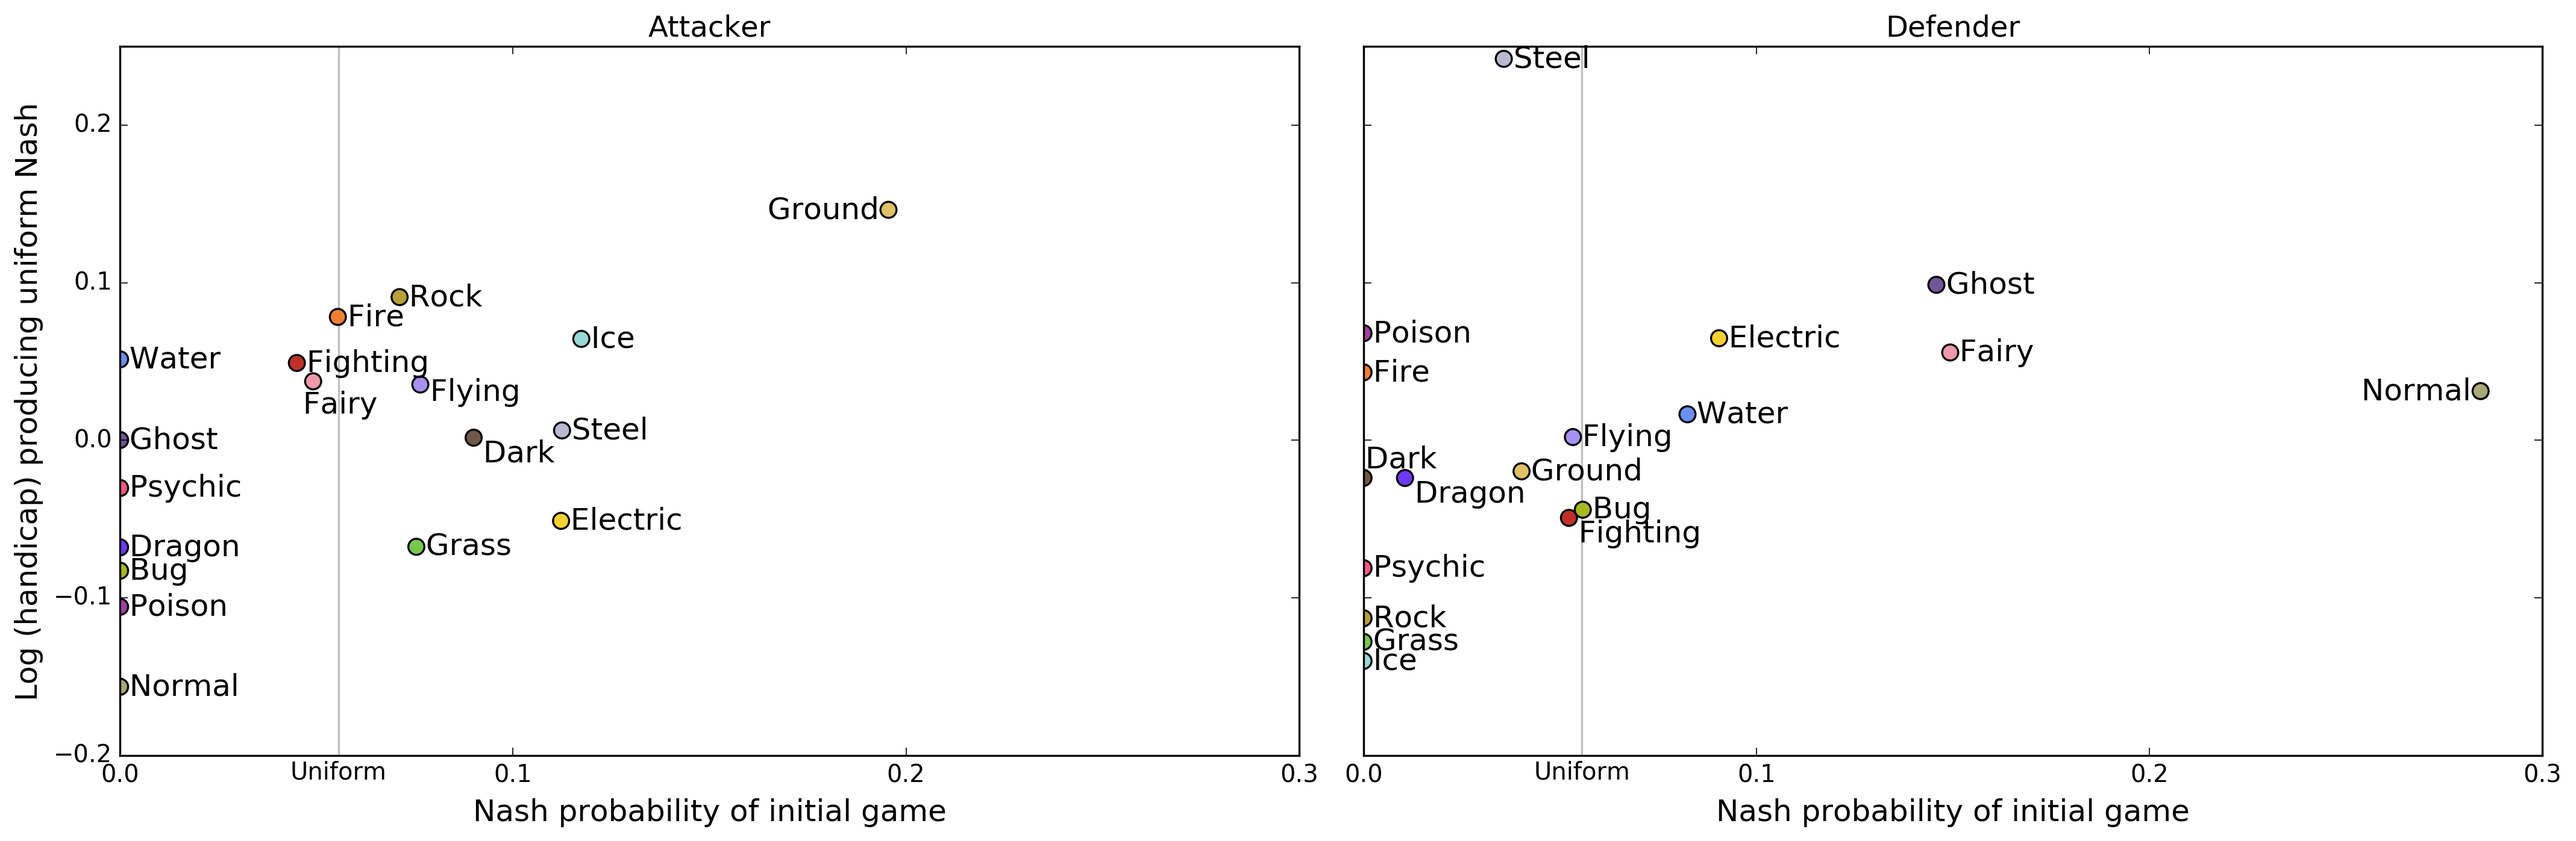
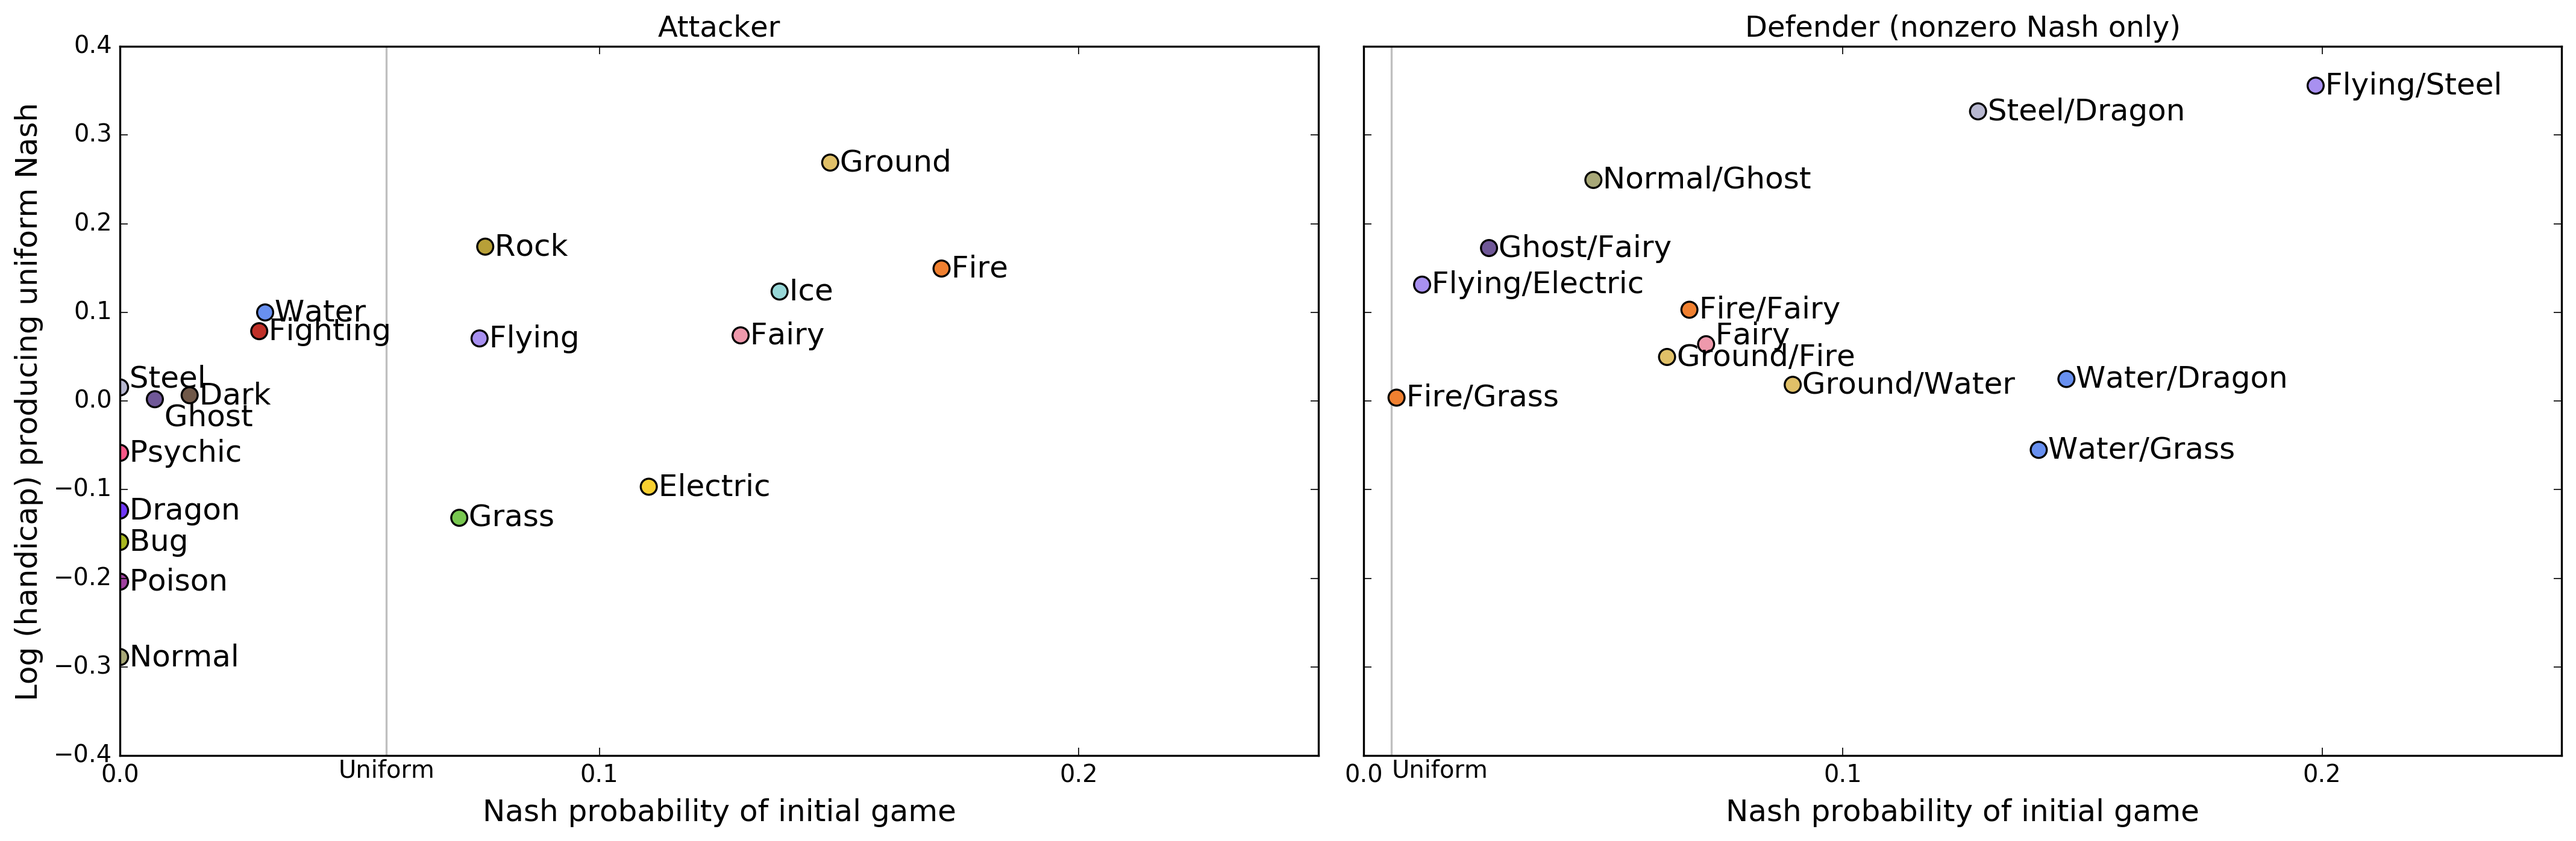
version with dual type defender

diff --git a/python/examples/pokemon_dual_defender.py b/python/examples/pokemon_dual_defender.py
@@ -1,0 +1,131 @@
+import _initpath
+
+import numpy
+import dataset.nonsymmetric
+import zerosum.balance
+import zerosum.nash
+import matplotlib
+import matplotlib.pyplot as plt
+
+# Balances the Pokemon type chart using a multiplicative handicap function.
+# This one includes all possible dual-type defenses.
+# Plots the handicaps versus Nash equilibrium of the original game.
+
+# Initial payoff matrix.
+data = dataset.nonsymmetric.pokemon_6_dual_defender.data
+# Names of the Pokemon types.
+row_names = dataset.nonsymmetric.pokemon_6_dual_defender.row_names
+# Vector of color codes for the types.
+row_colors = [dataset.nonsymmetric.pokemon_type_colors[name.split('/')[0]] for name in row_names]
+
+# Names of the Pokemon types.
+col_names = dataset.nonsymmetric.pokemon_6_dual_defender.col_names
+# Vector of color codes for the types.
+col_colors = [dataset.nonsymmetric.pokemon_type_colors[name.split('/')[0]] for name in col_names]
+
+# Nash equilibrium of the initial game.
+row_nash, col_nash = zerosum.nash.nash(data)
+# Handicaps producing a uniform Nash equilibrium.
+balance = zerosum.balance.MultiplicativeBalance(data).optimize()
+
+# Now to plot.
+dpi = 240
+marker_size = 64
+text_size = 15
+bottom = -0.4
+top = 0.4
+loc = matplotlib.ticker.MultipleLocator(base=0.1)
+
+# Plot attacker and defender on separate subplots. Attacker first.
+fig = plt.figure(figsize = (18, 6))
+gs = matplotlib.gridspec.GridSpec(1, 2, width_ratios=[1, 1])
+ax = plt.subplot(gs[0])
+
+# Draw a line indicating where the uniform distribution would be.
+uniform_x = 1.0 / len(row_nash.strategy)
+ax.plot([uniform_x, uniform_x], [bottom, top],
+        color='#bfbfbf', linestyle='-', zorder=0)
+plt.text(uniform_x, bottom - 0.003, 'Uniform',
+         fontsize = 12,
+         rotation = 0,
+         ha = 'center', va = 'top')
+
+# Scatter plot of handicaps vs. Nash of initial game.
+x = row_nash.strategy
+y = numpy.log(balance.row_handicaps)
+y -= numpy.mean(y)
+
+ax.scatter(x, y, s = marker_size, c = row_colors)
+
+# Label each scatter plot point with the type name.
+for pointx, pointy, name, color in zip(x, y, row_names, row_colors):
+    ha = 'left'
+    # manual adjustment
+    if name == 'Steel':
+        pointy += 0.01
+    if name == 'Ghost':
+        pointy -= 0.02
+    
+    name = ' ' + name + ' '
+    plt.text(pointx, pointy, name,
+             fontsize = text_size,
+             rotation = 0,
+             ha = ha, va = 'center')
+
+ax.xaxis.set_major_locator(loc)
+ax.yaxis.set_major_locator(loc)
+ax.set_title('Attacker')
+
+ax.set_xlabel('Nash probability of initial game', fontsize = text_size)
+ax.set_ylabel('Log (handicap) producing uniform Nash', fontsize = text_size)
+
+ax.set_xlim(left=0.0, right = 0.25)
+ax.set_ylim(bottom=bottom, top = top)
+
+# Now for the defender plot.
+ax = plt.subplot(gs[1])
+
+uniform_x = 1.0 / len(col_nash.strategy)
+ax.plot([uniform_x, uniform_x], [bottom, top],
+        color='#bfbfbf', linestyle='-', zorder=0)
+plt.text(uniform_x, bottom - 0.003, 'Uniform',
+         fontsize = 12,
+         rotation = 0,
+         ha = 'left', va = 'top')
+
+x = col_nash.strategy
+y = numpy.log(balance.col_handicaps)
+y -= numpy.mean(y)
+
+sel = x >= 1e-6
+
+ax.scatter(x[sel], y[sel], s = marker_size, c = [c for i, c in enumerate(col_colors) if sel[i]])
+
+for pointx, pointy, name, color in zip(x, y, col_names, col_colors):
+    ha = 'left'
+    if pointx < 1e-6: continue
+    # manual adjustment
+    if name == 'Fairy':
+        pointy += 0.01
+    
+    name = ' ' + name + ' '
+    plt.text(pointx, pointy, name,
+             fontsize = text_size,
+             rotation = 0,
+             ha = ha, va = 'center')
+
+ax.xaxis.set_major_locator(loc)
+ax.yaxis.set_major_locator(loc)
+ax.set_title('Defender (nonzero Nash only)')
+
+ax.set_xlabel('Nash probability of initial game', fontsize = text_size)
+ax.yaxis.set_ticklabels([])
+
+ax.set_xlim(left=0.0, right = 0.25)
+ax.set_ylim(bottom=bottom, top = top)
+
+plt.tight_layout()
+
+plt.savefig("out/pokemon_dual_defender_scatter.png", dpi = dpi, bbox_inches = "tight")
+plt.show()
+

diff --git a/python/examples/dataset/nonsymmetric.py b/python/examples/dataset/nonsymmetric.py
@@ -8,6 +8,22 @@ class NonSymmetricDataset():
         if col_names is None: col_names = row_names
         self.col_names = col_names
 
+def make_pokemon_dual_type_defender(data, names):
+    """ Given names and a single-type payoff matrix, creates a dataset with all dual-type defenders."""
+    dual_names = list(names)
+    dual_data = numpy.copy(data)
+    for i, type_i in enumerate(names):
+        for j, type_j in enumerate(names):
+            if j <= i: continue
+            new_name = type_i + '/' + type_j
+            dual_names.append(new_name)
+            
+    for i in range(len(names)):
+        new_cols = data[:, i][:, None] * data[:, i+1:]
+        dual_data = numpy.append(dual_data, new_cols, axis = 1)
+        
+    return NonSymmetricDataset(dual_data, names, dual_names)
+        
 # Pokemon type charts. Source: https://bulbapedia.bulbagarden.net/wiki/Type/Type_chart
 
 pokemon_type_names_1 = ['Normal', 'Fighting', 'Flying', 'Poison', 'Ground', 'Rock', 'Bug', 'Ghost', 
@@ -77,6 +93,8 @@ pokemon_type_chart_6 = numpy.array([
     [1.0, 2.0, 1.0, 0.5, 1.0, 1.0, 1.0, 1.0, 0.5, 0.5, 1.0, 1.0, 1.0, 1.0, 1.0, 2.0, 2.0, 1.0,],
     ])
 pokemon_6 = NonSymmetricDataset(pokemon_type_chart_6, pokemon_type_names_6)
+
+pokemon_6_dual_defender = make_pokemon_dual_type_defender(pokemon_type_chart_6, pokemon_type_names_6)
         
 pokemon_type_colors = {
     'Normal' : '#A8A878',
